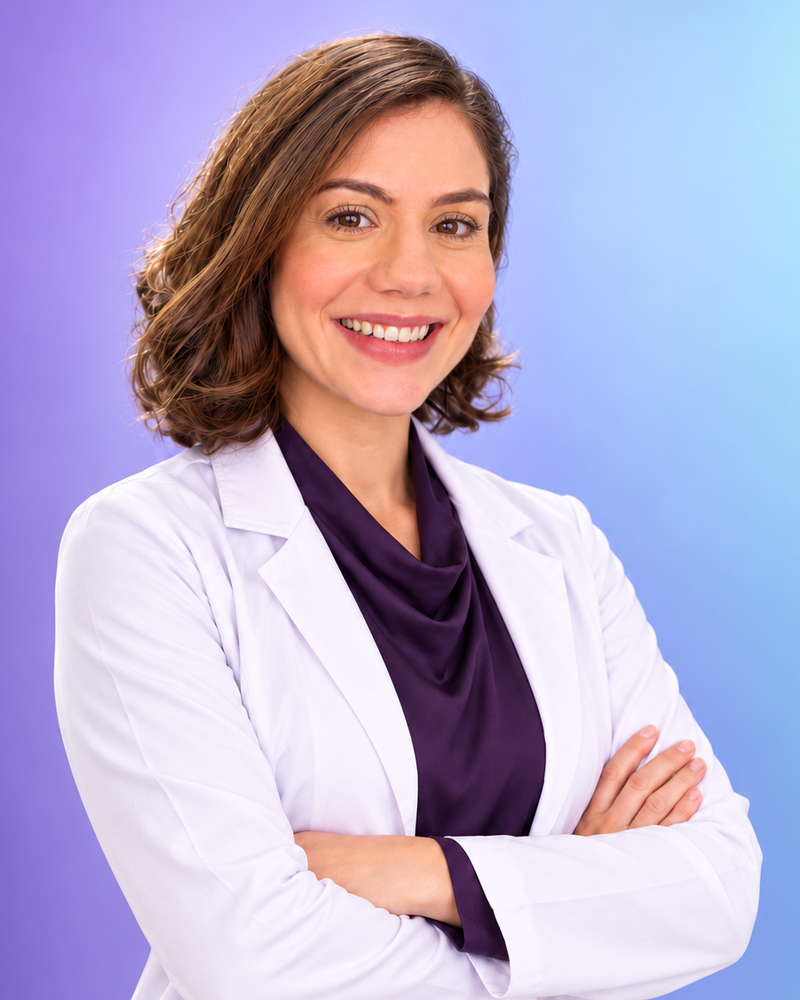
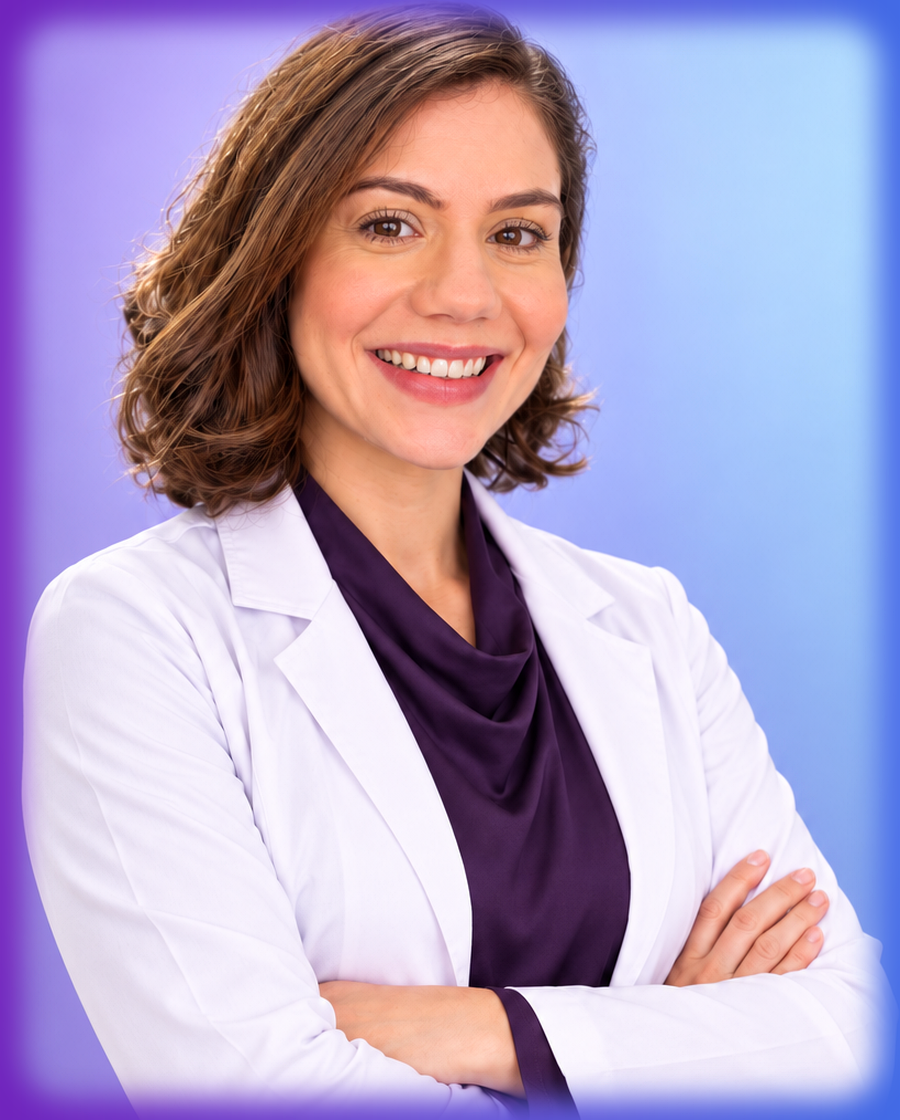
fix(landing): tighter left bias and softer lab-coat hair
Pull hero/professional gutters further left and feather the jaleco
portrait edges into brand purple so hair no longer reads as a cutout.

diff --git a/frontend/src/styles/global.css b/frontend/src/styles/global.css
@@ -22,8 +22,8 @@
   --radius-md: 18px;
   --font-display: 'Fraunces', Georgia, serif;
   --font-body: 'Outfit', sans-serif;
-  --page-gutter: clamp(16px, 3.2vw, 40px);
-  --page-max: 1180px;
+  --page-gutter: clamp(14px, 2.2vw, 28px);
+  --page-max: 1240px;
 }
 
 * { box-sizing: border-box; }
@@ -53,7 +53,10 @@ img { max-width: 100%; }
 .finale .container {
   margin-left: var(--page-gutter);
   margin-right: auto;
-  width: min(var(--page-max), calc(100% - var(--page-gutter) - clamp(16px, 2vw, 28px)));
+  width: min(var(--page-max), calc(100% - var(--page-gutter) - clamp(12px, 1.5vw, 20px)));
+}
+.hero .container.hero-grid {
+  margin-left: clamp(12px, 1.8vw, 22px);
 }
 
 /* Header */
@@ -214,9 +217,10 @@ img { max-width: 100%; }
   min-height: calc(min(100vh, 900px) - 72px);
 }
 .hero-copy {
-  max-width: 620px;
+  max-width: 600px;
   margin-right: auto;
   margin-left: 0;
+  padding-left: 0;
   padding-bottom: 88px;
   text-align: left;
   animation: rise-in 0.85s cubic-bezier(0.22, 1, 0.36, 1) both;
@@ -635,7 +639,9 @@ img { max-width: 100%; }
   height: 100%;
   min-height: 420px;
   object-fit: cover;
-  object-position: center 18%;
+  object-position: center 22%;
+  transform: scale(1.04);
+  transform-origin: center 30%;
 }
 .professional-photo-badge {
   position: absolute;
